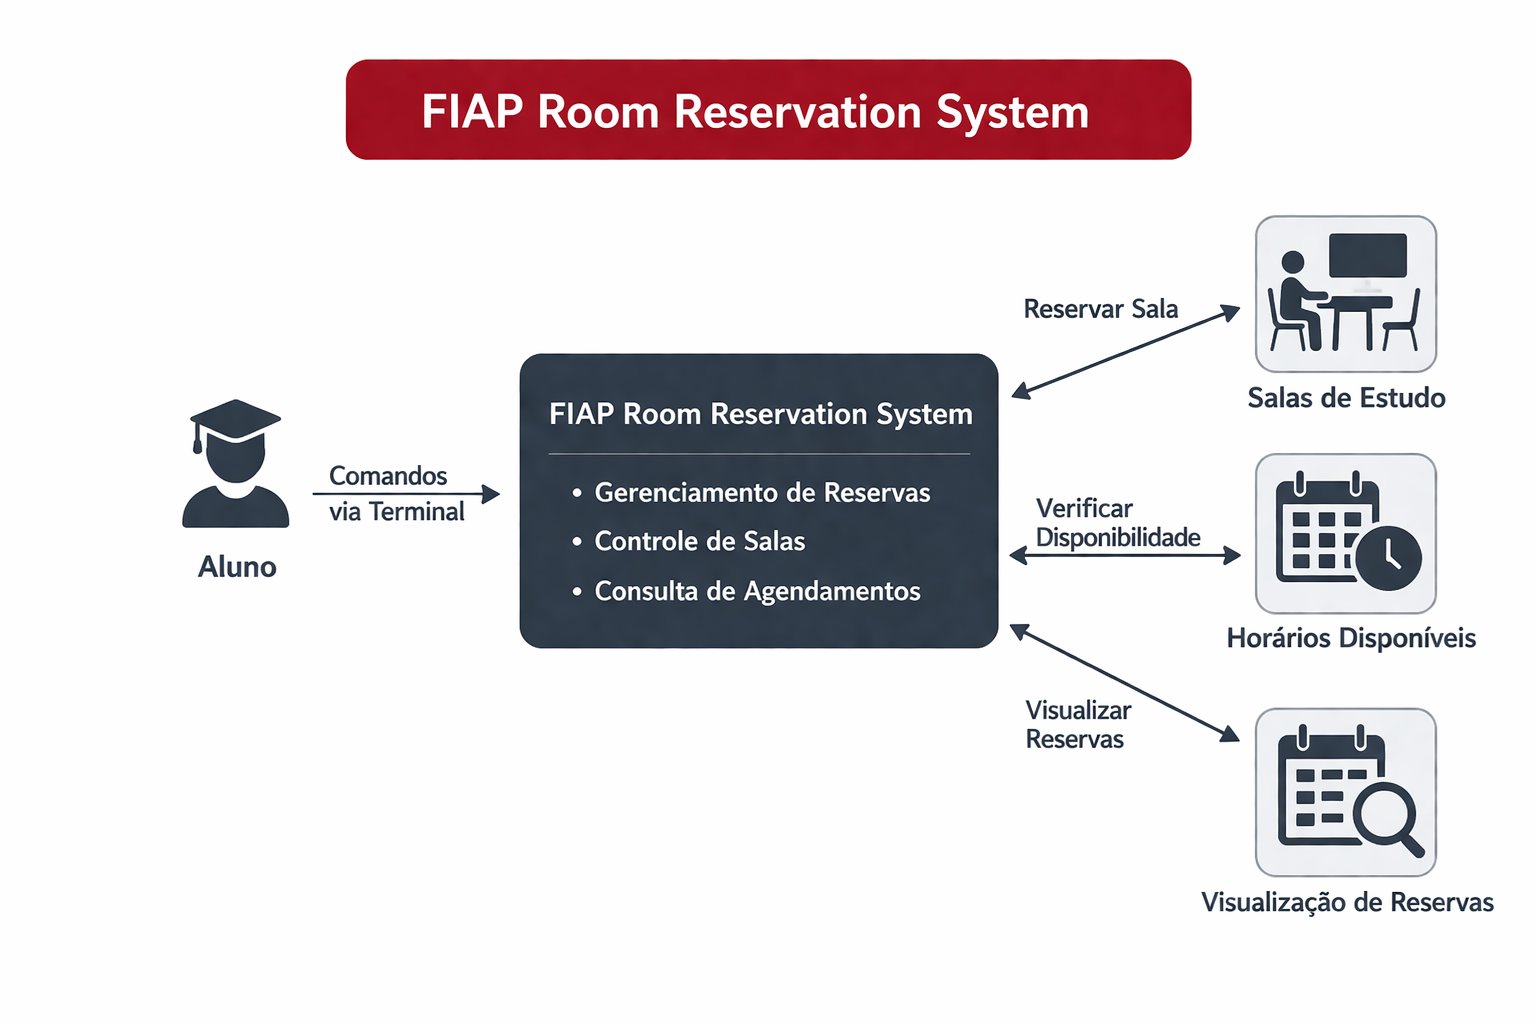
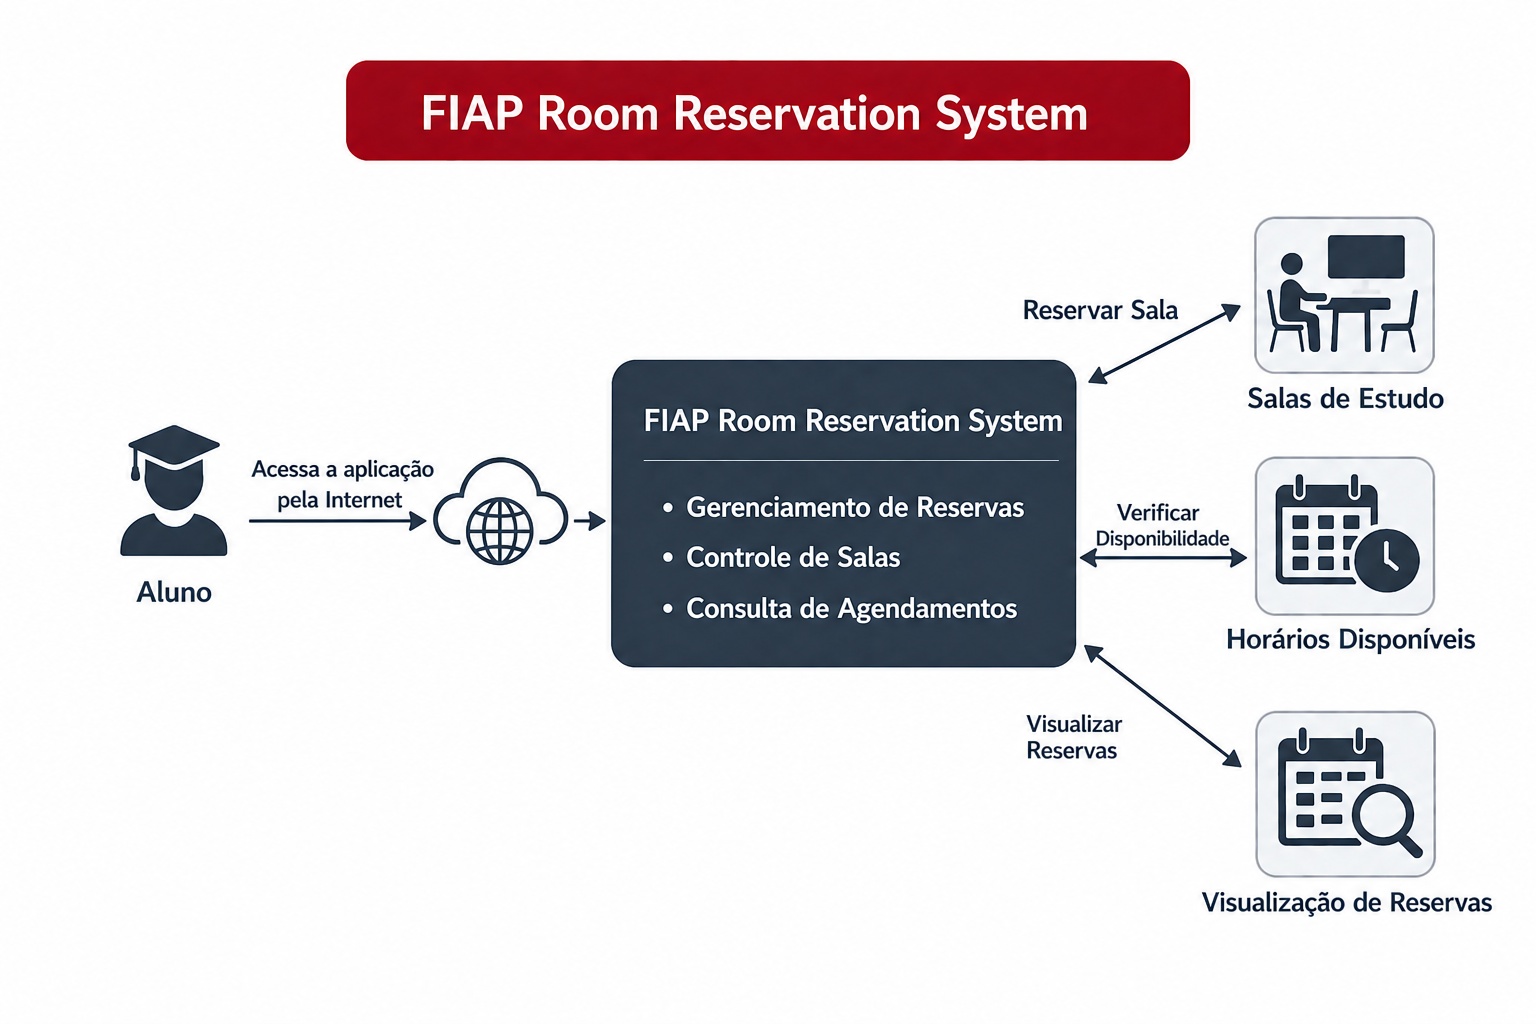
fix: atualizando readme.md

diff --git a/README.md b/README.md
@@ -1,63 +1,99 @@
-# 🏫 Sistema de Reserva de Salas FIAP
+# 🏫 FIAP Room Reservation System
 
 ![thumbnail](docs/image.png)
 
----
-
 ## 📌 Descrição do Problema
-
-Dificuldade de encontrar salas disponíveis para estudo.
-
----
+A dificuldade de encontrar salas disponíveis para estudo e a falta de uma organização centralizada para reservas geram conflitos e desperdício de tempo para alunos e funcionários da FIAP. O sistema manual ou a falta dele torna o processo ineficiente.
 
 ## 💡 Solução Proposta
+Desenvolvemos uma aplicação web intuitiva utilizando **Python e Flask** que centraliza a gestão de salas. O sistema permite que usuários se cadastrem, realizem login e gerenciem suas reservas de forma autônoma. Um dashboard interativo fornece uma visão clara da ocupação das salas em tempo real, otimizando o uso dos espaços físicos da instituição.
 
-Sistema em Python que permite reservar salas de estudo de forma simples e eficiente.
-
----
+## 🚀 Evoluções do Checkpoint 1 para o Checkpoint 2
+* **Interface:** Transição de uma aplicação via terminal (CLI) para uma interface Web moderna e responsiva.
+* **Arquitetura:** Reestruturação do código seguindo o padrão modular com **Blueprints**, separando rotas de autenticação, lógica de visualização e modelos.
+* **Funcionalidades:** Inclusão de um sistema de **Autenticação (Login/Cadastro)** com hash de senha para segurança.
+* **Persistência:** Melhoria na organização dos dados em arquivos JSON estruturados.
+* **Visualização:** Implementação de um **Dashboard de Ocupação** com estatísticas e filtros de data/horário.
 
 ## 🛠️ Tecnologias Utilizadas
-
-* 🐍 Python
-* 📄 JSON
-
----
+* **Linguagem:** [Python 3.10+](https://www.python.org/)
+* **Framework Web:** [Flask](https://flask.palletsprojects.com/)
+* **Template Engine:** [Jinja2](https://jinja.palletsprojects.com/)
+* **Segurança:** [Werkzeug](https://werkzeug.palletsprojects.com/) (Password Hashing)
+* **Persistência de Dados:** JSON
+* **Servidor WSGI:** [Gunicorn](https://gunicorn.org/) (para deploy)
 
 ## ▶️ Como Executar
 
+### 📋 Pré-requisitos
+* Python 3.10 ou superior instalado.
+* `pip` (gerenciador de pacotes do Python).
+
+### 🔧 Instalação
+1. Clone o repositório ou baixe os arquivos.
+2. Navegue até a pasta do projeto.
+3. Instale as dependências:
+   ```bash
+   pip install -r src/requirements.txt
+   ```
+
+### 🚀 Execução
+Para iniciar o servidor de desenvolvimento:
 ```bash
-python src/sistema_reserva_salas.py
+python src/app.py
 ```
+O sistema estará disponível em `http://localhost:5000`.
 
----
+## 📁 Estrutura do Projeto
+* `src/app.py`: Ponto de entrada da aplicação e configuração do servidor.
+* `src/auth/`: Módulo responsável pela autenticação (rotas de login e cadastro).
+* `src/views/`: Módulo principal contendo a lógica de reservas, dashboard e relatórios.
+* `src/models/`: Definição das classes de dados (Usuário, Reserva, Sala) e utilitários de persistência.
+* `src/data/`: Armazenamento dos arquivos JSON (`users.json`, `reservas.json`).
+* `src/templates/`: Arquivos HTML da interface.
+* `src/static/`: Arquivos estáticos como CSS e imagens da UI.
 
-## 📋 Funcionalidades
+## 📋 Funcionalidades Implementadas
 
-* Ver salas
-* Reservar
-* Cancelar
-* Listar reservas
+### Cadastro e Login
+* **Cadastro:** Permite novos usuários criarem contas com validação básica.
+* **Login:** Acesso restrito via e-mail e senha, com sessões seguras.
 
----
+### Casos de Uso
+| Caso de Uso | Status |
+| :--- | :--- |
+| Criar conta de usuário | ✅ Implementado |
+| Autenticar usuário (Login/Logout) | ✅ Implementado |
+| Visualizar disponibilidade de salas no Dashboard | ✅ Implementado |
+| Realizar reserva de sala | ✅ Implementado |
+| Validar conflitos de horário em reservas | ✅ Implementado |
+| Listar minhas reservas e todas as reservas | ✅ Implementado |
+| Cancelar reserva própria | ✅ Implementado |
+| Gerar relatórios de ocupação | ⚠️ Parcial |
+
+## 🌟 Diferencial do Projeto
+
+### Descrição
+O grande diferencial é o **Dashboard de Ocupação Inteligente**. Ele não apenas lista reservas, mas calcula em tempo real a porcentagem de ocupação de cada sala baseada no dia atual e destaca quais salas estão ocupadas "Agora".
+
+### Justificativa
+Em ambientes acadêmicos dinâmicos, a visualização rápida e gráfica da disponibilidade é mais eficiente do que ler tabelas de horários. Isso permite uma tomada de decisão imediata pelo aluno que busca um local para estudar.
+
+### Referências
+* [Documentação Flask](https://flask.palletsprojects.com/en/3.0.x/)
+* [Jinja2 Documentation](https://jinja.palletsprojects.com/en/3.1.x/)
+* [FIAP - Material de Microservices and Web Applications](https://www.fiap.com.br/)
 
 ## 🎥 Demonstração
-
 ![Demo do sistema](docs/Animação.gif)
+*Veja o funcionamento básico do sistema no GIF acima.*
 
----
-
-## 👥 Integrantes
-
-* 👨💻 Fabio Henrique Santos Farias
-* 👨💻 Carlos Augusto da Cruz Possi
-* 👨💻 João Pedro Bernardo Santos da Silva
-
----
+## 👥 Integrantes do Grupo
+* **Fabio Henrique Santos Farias** (RM: 552453 )
+* **Carlos Augusto da Cruz Possi** (RM: 558758 )
+* **João Pedro Bernardo Santos da Silva** (RM: 557142 )
 
 ## 🔗 Links
-
-🧠 **Miro (Documentação e Diagramas)**
-https://miro.com/app/board/uXjVGwGD7H4=/?share_link_id=899993910065
-
-💻 **Colab**
-https://colab.research.google.com/drive/1IDkm92TqKFn3YvFlW22JfamUdzKsnMz9?usp=sharing
+🧠 **Miro (Documentação e Diagramas):** [Acessar Board](https://miro.com/app/board/uXjVGwGD7H4=/?share_link_id=899993910065)  
+💻 **Google Colab (Protótipo Inicial):** [Acessar Notebook](https://colab.research.google.com/drive/1IDkm92TqKFn3YvFlW22JfamUdzKsnMz9?usp=sharing)  
+📺 **Vídeo de Apresentação:** [Link do Vídeo](URL_AQUI)  